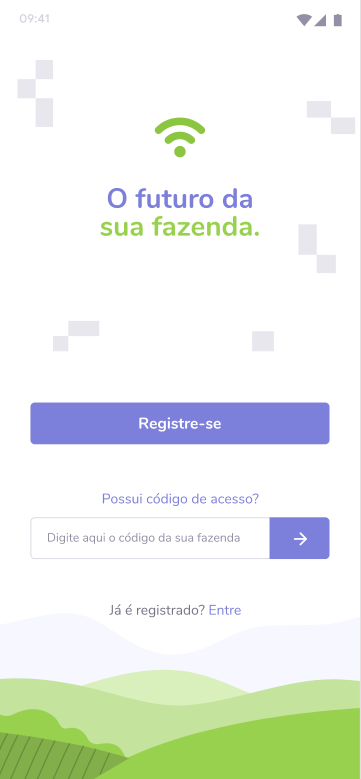
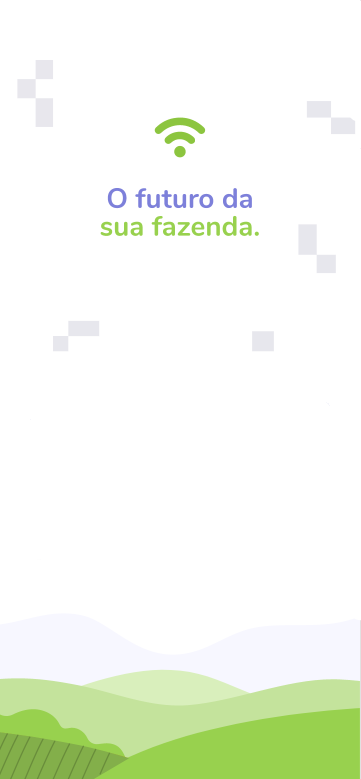
welcome page + otp page finalized

diff --git a/lib/app/modules/welcome/welcome_page.dart b/lib/app/modules/welcome/welcome_page.dart
@@ -1,15 +1,111 @@
 import 'package:flutter/material.dart';
+import 'package:flutter_modular/flutter_modular.dart';
+import 'package:widgets/app/core/ui/themes/app_colors.dart';
+import 'package:widgets/app/core/ui/themes/app_text_style.dart';
+import 'package:widgets/app/core/ui/widgets/retangular_button_widget.dart';
+import 'package:widgets/app/modules/otp/widgets/rich_text_widget.dart';
 
 class WelcomePage extends StatelessWidget {
-  const WelcomePage({Key? key}) : super(key: key);
+  const WelcomePage({super.key});
 
   @override
   Widget build(BuildContext context) {
-    return Scaffold(
-      appBar: AppBar(
-        title: const Text(''),
+    Size size = MediaQuery.of(context).size;
+    return SafeArea(
+      child: Scaffold(
+        body: Container(
+            padding: const EdgeInsets.symmetric(horizontal: 30),
+            width: size.width,
+            decoration: const BoxDecoration(
+              image: DecorationImage(
+                fit: BoxFit.fill,
+                image: AssetImage(
+                  'assets/images/initial_page_background.png',
+                ),
+              ),
+            ),
+            child: Stack(
+              fit: StackFit.expand,
+              children: [
+                Positioned(
+                  top: size.height * .47,
+                  right: 1,
+                  left: 1,
+                  child: SizedBox(
+                    width: size.width,
+                    height: 45,
+                    child: const RetangularButtonWidget(
+                      title: 'Registre-se',
+                    ),
+                  ),
+                ),
+                Positioned(
+                  bottom: size.height * .35,
+                  right: 1,
+                  left: 1,
+                  child: const Text(
+                    'Possui código de acesso?',
+                    style: AppTextStyle.textLink,
+                    textAlign: TextAlign.center,
+                  ),
+                ),
+                Positioned(
+                  bottom: size.height * .27,
+                  right: 1,
+                  left: 1,
+                  child: TextFormField(
+                    decoration: InputDecoration(
+                      contentPadding: const EdgeInsets.only(left: 10),
+                      hintText: 'Digite aqui o código da sua fazenda',
+                      hintStyle: const TextStyle(
+                        fontSize: 15,
+                      ),
+                      suffixIcon: Container(
+                        decoration: const BoxDecoration(
+                          color: AppColors.purpleBlue,
+                          borderRadius: BorderRadius.only(
+                            topRight: Radius.circular(5),
+                            bottomRight: Radius.circular(5),
+                          ),
+                        ),
+                        child: IconButton(
+                          onPressed: () {},
+                          icon: const Icon(
+                            Icons.arrow_forward_rounded,
+                            color: AppColors.white,
+                            size: 17,
+                          ),
+                        ),
+                      ),
+                    ),
+                  ),
+                ),
+                Positioned(
+                  bottom: size.height * .2,
+                  right: 1,
+                  left: 1,
+                  child: Row(
+                    mainAxisAlignment: MainAxisAlignment.center,
+                    children: [
+                      RichTextWidget(
+                        title: 'Ja é Registrado? ',
+                        link: 'Entre',
+                        voidCallback: () => Modular.to.navigate('/login/'),
+                        titleStyle: const TextStyle(
+                          color: Colors.grey,
+                          fontSize: 15,
+                        ),
+                        linkStyle: const TextStyle(
+                          color: AppColors.purpleBlue,
+                          fontSize: 15,
+                        ),
+                      ),
+                    ],
+                  ),
+                )
+              ],
+            )),
       ),
-      body: Container(),
     );
   }
 }

diff --git a/lib/app/modules/otp/otp_page.dart b/lib/app/modules/otp/otp_page.dart
@@ -1,11 +1,12 @@
-import 'package:flutter/gestures.dart';
 import 'package:flutter/material.dart';
 import 'package:validatorless/validatorless.dart';
 import 'package:widgets/app/core/ui/themes/app_text_style.dart';
 import 'package:widgets/app/core/ui/widgets/retangular_button_widget.dart';
 
+import 'widgets/rich_text_widget.dart';
+
 class OtpPage extends StatefulWidget {
-  const OtpPage({Key? key}) : super(key: key);
+  const OtpPage({super.key});
 
   @override
   State<OtpPage> createState() => _OtpPageState();
@@ -14,6 +15,7 @@ class OtpPage extends StatefulWidget {
 class _OtpPageState extends State<OtpPage> {
   final List<TextEditingController> _textEditingController =
       <TextEditingController>[];
+  final _formKey = GlobalKey<FormState>();
 
   @override
   Widget build(BuildContext context) {
@@ -61,6 +63,7 @@ class _OtpPageState extends State<OtpPage> {
                   height: 10,
                 ),
                 Form(
+                  key: _formKey,
                   child: SizedBox(
                     width: size.width,
                     child: Row(
@@ -72,42 +75,18 @@ class _OtpPageState extends State<OtpPage> {
                 const SizedBox(
                   height: 30,
                 ),
-                RichText(
-                  textAlign: TextAlign.center,
-                  text: TextSpan(
-                    text: 'Não recebeu o código de segurança?\n',
-                    style: AppTextStyle.commonText,
-                    children: [
-                      TextSpan(
-                        text: 'Reenviar SMS',
-                        style: AppTextStyle.textLink,
-                        recognizer: TapGestureRecognizer()
-                          ..onTap = () {
-                            print('object');
-                          },
-                      ),
-                    ],
-                  ),
+                RichTextWidget(
+                  title: 'Não recebeu o código de segurança?\n',
+                  link: 'Reenviar SMS',
+                  voidCallback: () {},
                 ),
                 const SizedBox(
                   height: 20,
                 ),
-                RichText(
-                  textAlign: TextAlign.center,
-                  text: TextSpan(
-                    text: 'Não reconhece o número de telefone?\n',
-                    style: AppTextStyle.commonText,
-                    children: [
-                      TextSpan(
-                        text: 'Editar número de telefone',
-                        style: AppTextStyle.textLink,
-                        recognizer: TapGestureRecognizer()
-                          ..onTap = () {
-                            print('object');
-                          },
-                      )
-                    ],
-                  ),
+                RichTextWidget(
+                  title: 'Não reconhece o número de telefone?\n',
+                  link: 'Editar número de telefone',
+                  voidCallback: () {},
                 ),
                 const SizedBox(
                   height: 40,
@@ -115,8 +94,13 @@ class _OtpPageState extends State<OtpPage> {
                 SizedBox(
                   width: size.width,
                   height: 50,
-                  child: const RetangularButtonWidget(
+                  child: RetangularButtonWidget(
                     title: 'Confirmar',
+                    onPressed: () {
+                      final formValid =
+                          _formKey.currentState?.validate() ?? false;
+                      if (formValid) {}
+                    },
                   ),
                 ),
               ],
@@ -138,8 +122,8 @@ class _OtpPageState extends State<OtpPage> {
             textAlign: TextAlign.center,
             controller: _textEditingController[index],
             validator: Validatorless.multiple([
-              Validatorless.required('Necessario informar um numero'),
-              Validatorless.number('Informar apenas numeros'),
+              Validatorless.required(''),
+              Validatorless.number(''),
             ]),
             keyboardType: TextInputType.number,
           ),

diff --git a/lib/app/modules/otp/widgets/rich_text_widget.dart b/lib/app/modules/otp/widgets/rich_text_widget.dart
@@ -1,0 +1,38 @@
+import 'package:flutter/gestures.dart';
+import 'package:flutter/material.dart';
+import 'package:widgets/app/core/ui/themes/app_text_style.dart';
+
+class RichTextWidget extends StatelessWidget {
+  final VoidCallback voidCallback;
+  final TextStyle? titleStyle;
+  final TextStyle? linkStyle;
+  final String title;
+  final String link;
+
+  const RichTextWidget({
+    super.key,
+    required this.voidCallback,
+    required this.title,
+    required this.link,
+    this.titleStyle,
+    this.linkStyle,
+  });
+
+  @override
+  Widget build(BuildContext context) {
+    return RichText(
+      textAlign: TextAlign.center,
+      text: TextSpan(
+        text: title,
+        style: titleStyle ?? AppTextStyle.commonText,
+        children: [
+          TextSpan(
+            text: link,
+            style: linkStyle ?? AppTextStyle.textLink,
+            recognizer: TapGestureRecognizer()..onTap = voidCallback,
+          ),
+        ],
+      ),
+    );
+  }
+}

diff --git a/lib/app/app_module.dart b/lib/app/app_module.dart
@@ -1,5 +1,6 @@
 import 'package:flutter_modular/flutter_modular.dart';
 import 'package:widgets/app/modules/welcome/welcome_module.dart';
+import 'modules/login/login_module.dart';
 import 'modules/otp/otp_module.dart';
 import 'modules/splash/splash_page.dart';
 
@@ -10,7 +11,8 @@ class AppModule extends Module {
   @override
   List<ModularRoute> get routes => [
         ChildRoute('/', child: (context, args) => const SplashPage()),
+        ModuleRoute('/login/', module: LoginModule()),
         ModuleRoute('/otp/', module: OtpModule()),
-        ModuleRoute('/initial/', module: WelcomeModule()),
+        ModuleRoute('/welcome/', module: WelcomeModule()),
       ];
 }

diff --git a/lib/app/modules/login/login_module.dart b/lib/app/modules/login/login_module.dart
@@ -1,0 +1,13 @@
+import 'package:flutter_modular/flutter_modular.dart';
+import 'login_page.dart';
+
+class LoginModule extends Module {
+  @override
+  List<Bind> get binds => [
+        //BlocBind.lazySingleton((i) => LoginController()),
+      ];
+
+  @override
+  List<ModularRoute> get routes =>
+      [ChildRoute('/', child: (context, args) => const LoginPage())];
+}

diff --git a/lib/app/core/ui/widgets/retangular_button_widget.dart b/lib/app/core/ui/widgets/retangular_button_widget.dart
@@ -23,7 +23,7 @@ class RetangularButtonWidget extends StatelessWidget {
         onPrimary: Colors.white, // foreground
         textStyle: AppTextStyle.buttonText,
         shape: RoundedRectangleBorder(
-          borderRadius: BorderRadius.circular(10),
+          borderRadius: BorderRadius.circular(5),
         ),
       ),
       onPressed: onPressed ?? () {},

diff --git a/lib/app/modules/splash/splash_page.dart b/lib/app/modules/splash/splash_page.dart
@@ -14,7 +14,7 @@ class _SplashPageState extends State<SplashPage> {
     super.initState();
     Future.delayed(
       const Duration(seconds: 2),
-      () => Modular.to.navigate('/otp/'),
+      () => Modular.to.navigate('/welcome/'),
     );
   }
 
